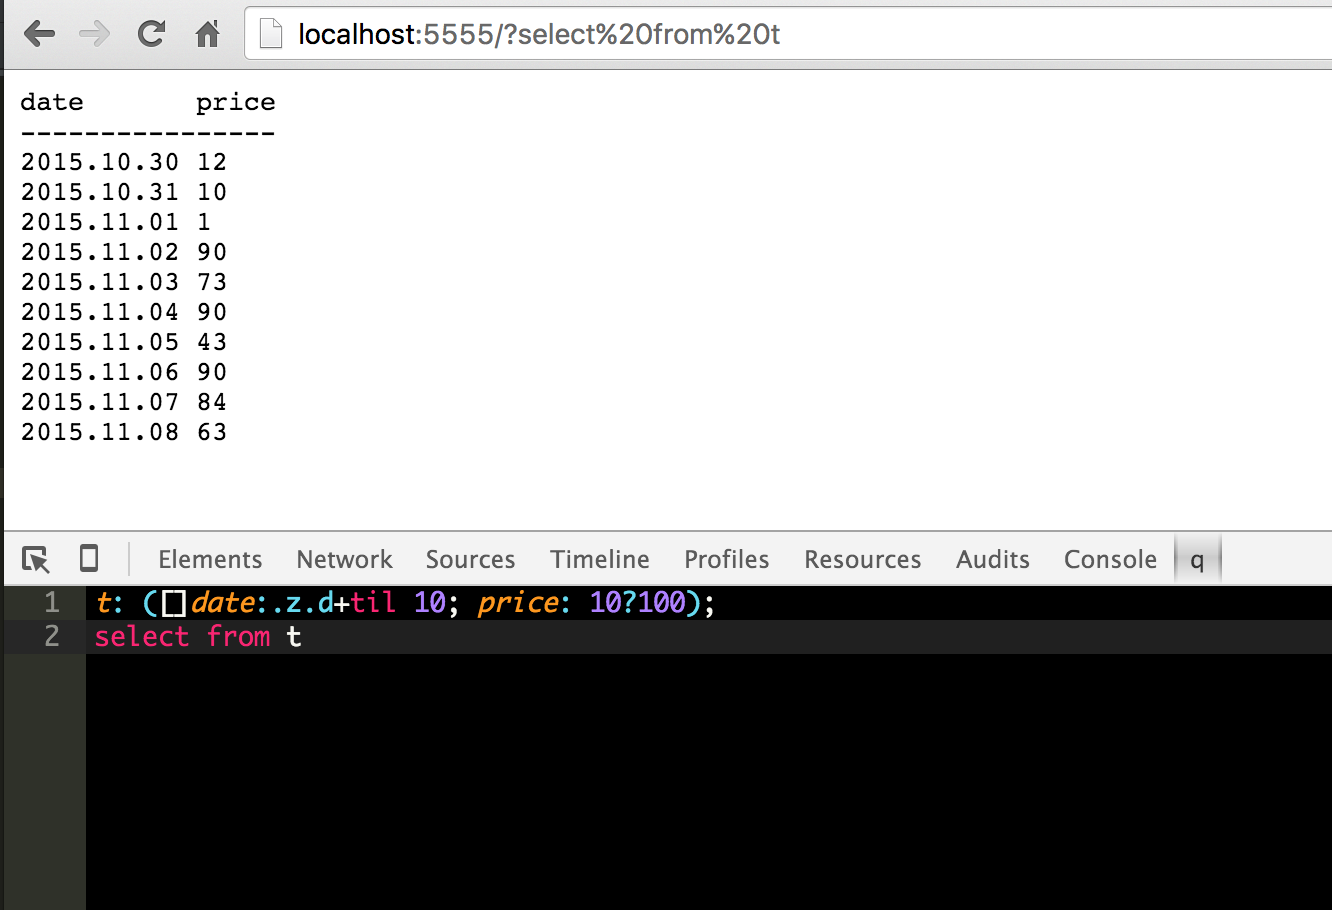
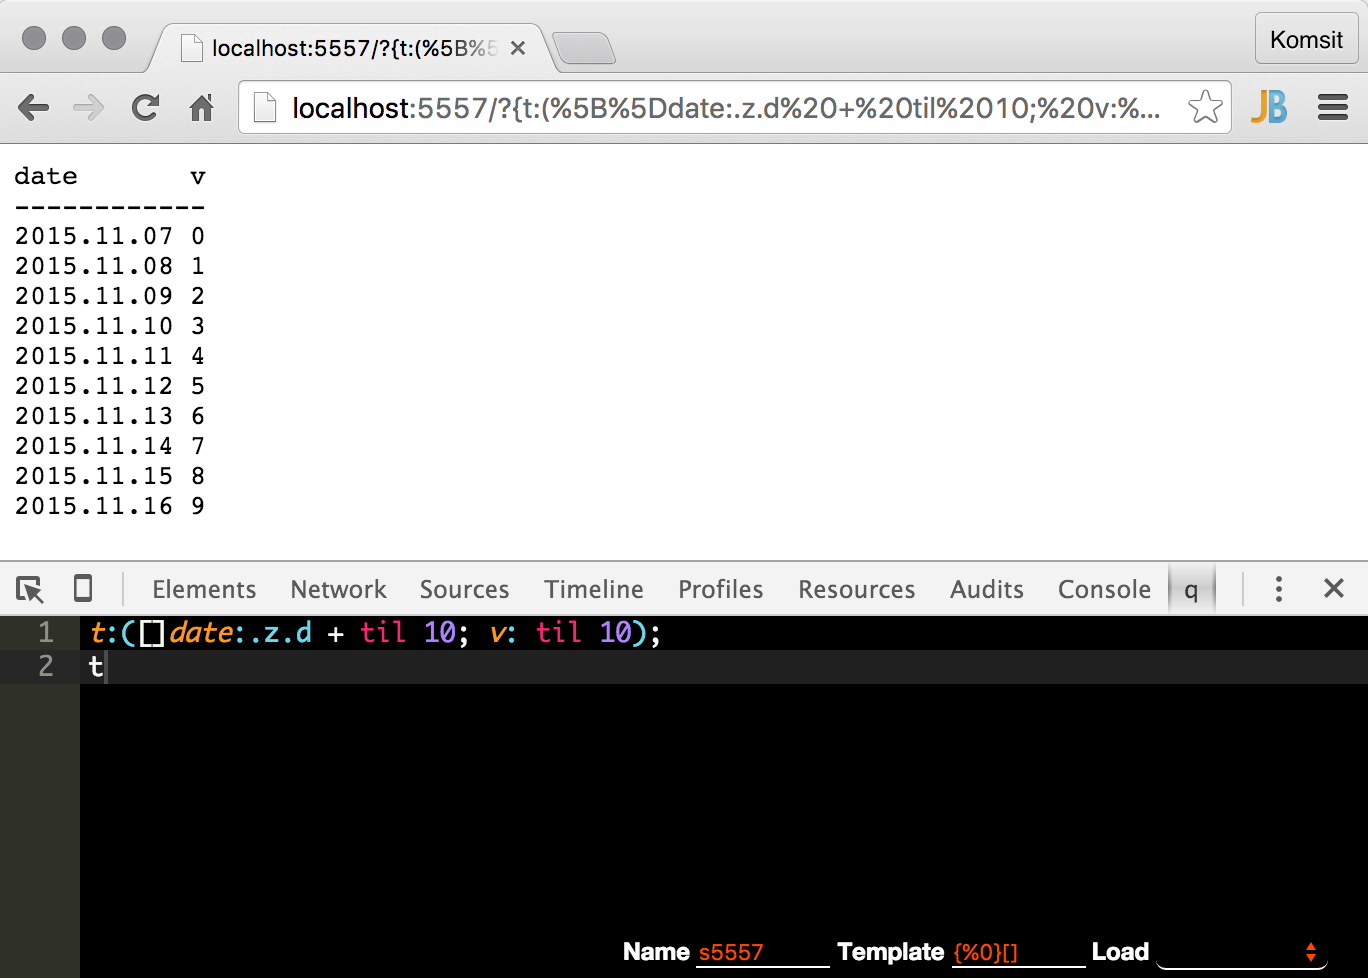
add feature to delete script

diff --git a/src/main-ui.js b/src/main-ui.js
@@ -9,14 +9,34 @@ HOW_TO += '//`Command+Enter` to run the current line\n';
 HOW_TO += '//`Command+e` to run the current selection\n';
 HOW_TO += '//`Command+Shift+Enter` to run the whole script\n';
 
+HOW_TO += '//scripts are saved to chrome local key-value storage (using Name text field as key)\n';
+HOW_TO += '//`Command+s` to save\n';
+HOW_TO += '//`Command+l` to load\n';
+HOW_TO += '//`Command+d` to delete\n';
+HOW_TO += '\n';
+HOW_TO += '//Try executing below line by selecting the line and press `Command+Enter`\n';
+HOW_TO += 'sum til 10\n';
+HOW_TO += 'tables `.\n';
+HOW_TO += '\n';
+HOW_TO += '//long output may be truncated, run below command to increase buffer size\n';
+HOW_TO += 'system "C 10000 10000"\n';
 
-function showMessage(text, delay) {
+var $script_name = $('#script_name');
+var $q_template = $('#q_template');
+var $load_select = $('#script_load');
+
+function showMessage(text, s, action, delay) {
     $message.text(text);
+    $message.append('<p>' + s + '</p>');
+    $message.find('span').text('new');
     $message.addClass('active');
+    if (action){
+        $message.addClass(action);
+    }
 
     schedule(function () {
         $message.text('');
-        $message.removeClass('active');
+        $message.removeClass();
     }, delay);
 }
 
@@ -38,7 +58,8 @@ function saveState() {
         src: src
     };
     localStorage.setItem(key, JSON.stringify(store));
-    showMessage('saved to ' + key);
+    populateSelect();
+    showMessage('saved to ', key, 'save');
 }
 
 function loadState() {
@@ -52,16 +73,33 @@ function loadState() {
     } else{
         var store = JSON.parse(json);
         editor.session.setValue(store.src);
-        $('#q_template').val(store.q_template);
+        $q_template.val(store.q_template);
     }
 
-    showMessage('loaded from ' + key);
+    showMessage('loaded from ',  key, 'load');
+}
+
+function deleteState() {
+    var config = getConfig();
+    var key = config.script_name;
+    localStorage.removeItem(key);
+    populateSelect();
+    showMessage('deleted ', key, 'delete');
 }
 
 function getConfig(){
     return {
-        script_name: $('#script_name').val(),
-        q_template: $('#q_template').val()
+        script_name: $script_name.val(),
+        q_template: $q_template.val()
+    }
+}
+
+function populateSelect(){
+    $load_select.empty();
+    for (var key in localStorage){
+        console.log(key);
+        $load_select
+            .append($('<option>', { value : key }).text(key));
     }
 }
 
@@ -71,8 +109,17 @@ chrome.devtools.inspectedWindow.eval('window.location', function(result, excepti
     loc = result;
     //todo: populate all saved script in select box
     //set default script name
-    $('#script_name').val('script' + loc.port);
-    $('#q_template').val(DEFAULT_Q_TEMPLATE);
+
+    $script_name.val('s' + loc.port);
+    $q_template.val(DEFAULT_Q_TEMPLATE);
+
+    populateSelect();
+    $load_select.change(function(){
+        var name = $load_select.find('option:selected').val();
+        console.log(name);
+        $script_name.val(name);
+        loadState();
+    });
 
     loadState();
 });

diff --git a/src/main.html b/src/main.html
@@ -6,12 +6,14 @@
 </head>
 <body>
     <div id="q-editor"></div>
-    <div id="message"></div>
+    <div id="message"><span></span></div>
     <div id="config">
         <label for="script_name">Name</label>
         <input type="text" id="script_name" name="script_name" value="" size="10">
         <label for="q_template">Template</label>
         <input type="text" id="q_template" name="q_template" value="" size="10">
+        <label for="script_load">Load</label>
+        <select id="script_load" name="script_load"></select>
     </div>
 
     <script src="ace/ace.js" type="text/javascript" charset="utf-8"></script>

diff --git a/src/style/style.css b/src/style/style.css
@@ -15,9 +15,20 @@
     top: 0;
     padding: 5px 10px;
     z-index: 3;
-    background-color:green;
     color:white;
     display: none;
+}
+#message.load {
+    background-color: #ffdf3c;
+}
+#message.delete {
+    background-color: red;
+    text-decoration: line-through;
+}
+#message.save{
+    background-color:green;
+}
+#message p{
     font-size: 30pt;
 }
 
@@ -41,9 +52,10 @@
     font-weight: bold;
     color: white;
 }
-#config input{
+#config input, select{
     background-color: black;
     color: orangered;
     border: 0;
     border-bottom: solid 1px white;
+    border-radius: 0;
 }

diff --git a/src/main-ace.js b/src/main-ace.js
@@ -44,3 +44,9 @@ editor.commands.addCommand({
     bindKey: "Ctrl-l|Command-l",
     exec: loadState
 });
+
+editor.commands.addCommand({
+    name: "deleteState",
+    bindKey: "Ctrl-d|Command-d",
+    exec: deleteState
+});

diff --git a/README.md b/README.md
@@ -21,9 +21,12 @@ Interacts with kdb/q from chrome using kdb http interface. Useful for quick kdb 
    
    * `Command+Enter` to run the current line    
    * `Command+e` to run the current selection  
-   * `Command+Shift+Enter` to run the whole script    
-   * `Command+s` to save script to chrome local key-value storage   
-   * `Command+l` to load script from chrome local key-value storage  
+   * `Command+Shift+Enter` to run the whole script
+       
+   scripts are saved to chrome local key-value storage (using name text field as key)  
+   * `Command+s` to save     
+   * `Command+l` to load   
+   * `Command+d` to delete   
    
    (Replace `Command` by `Ctrl` for above shortcuts if windows)
 
@@ -33,6 +36,7 @@ Interacts with kdb/q from chrome using kdb http interface. Useful for quick kdb 
    * If you need to define function, define it in its own namespace (i.e. `.my.f:{x+1}`)
    * If you need to define variable, use `::` (i.e. `e::{x+1}`)
    * Because of this, don't use x or y since it's a reserved argument names in q
+   * You can change this behavior, or add your custom wrapper by changing Template `{%0}[]` where %0 is the code you sent from editor. Template will be saved with script.
 
 ##Todo
-   * ability to export saved scripts
+   * export saved scripts
